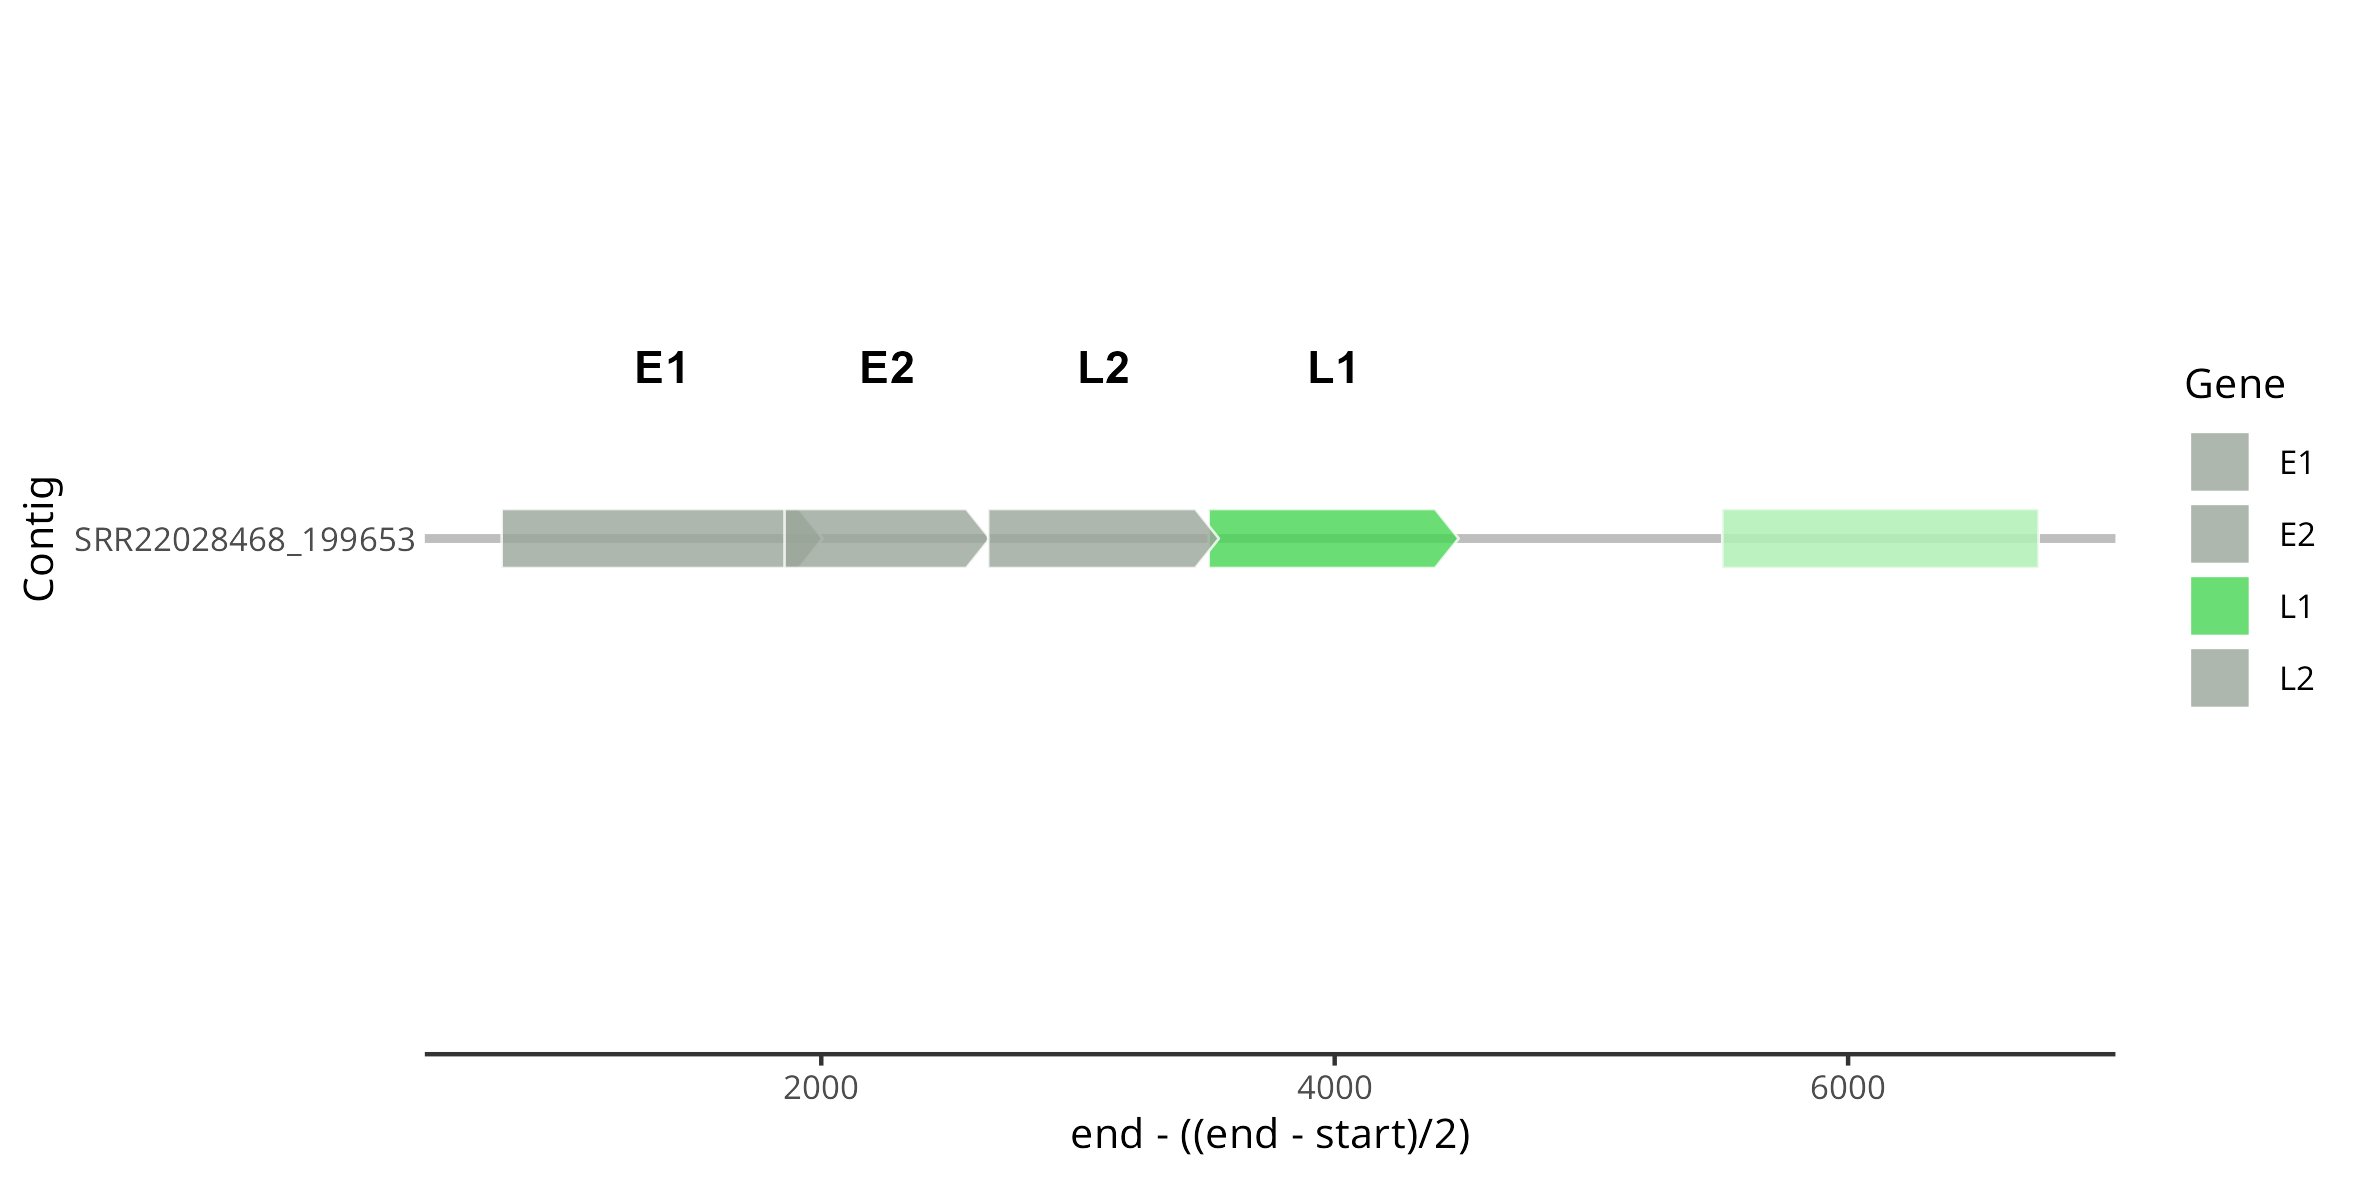
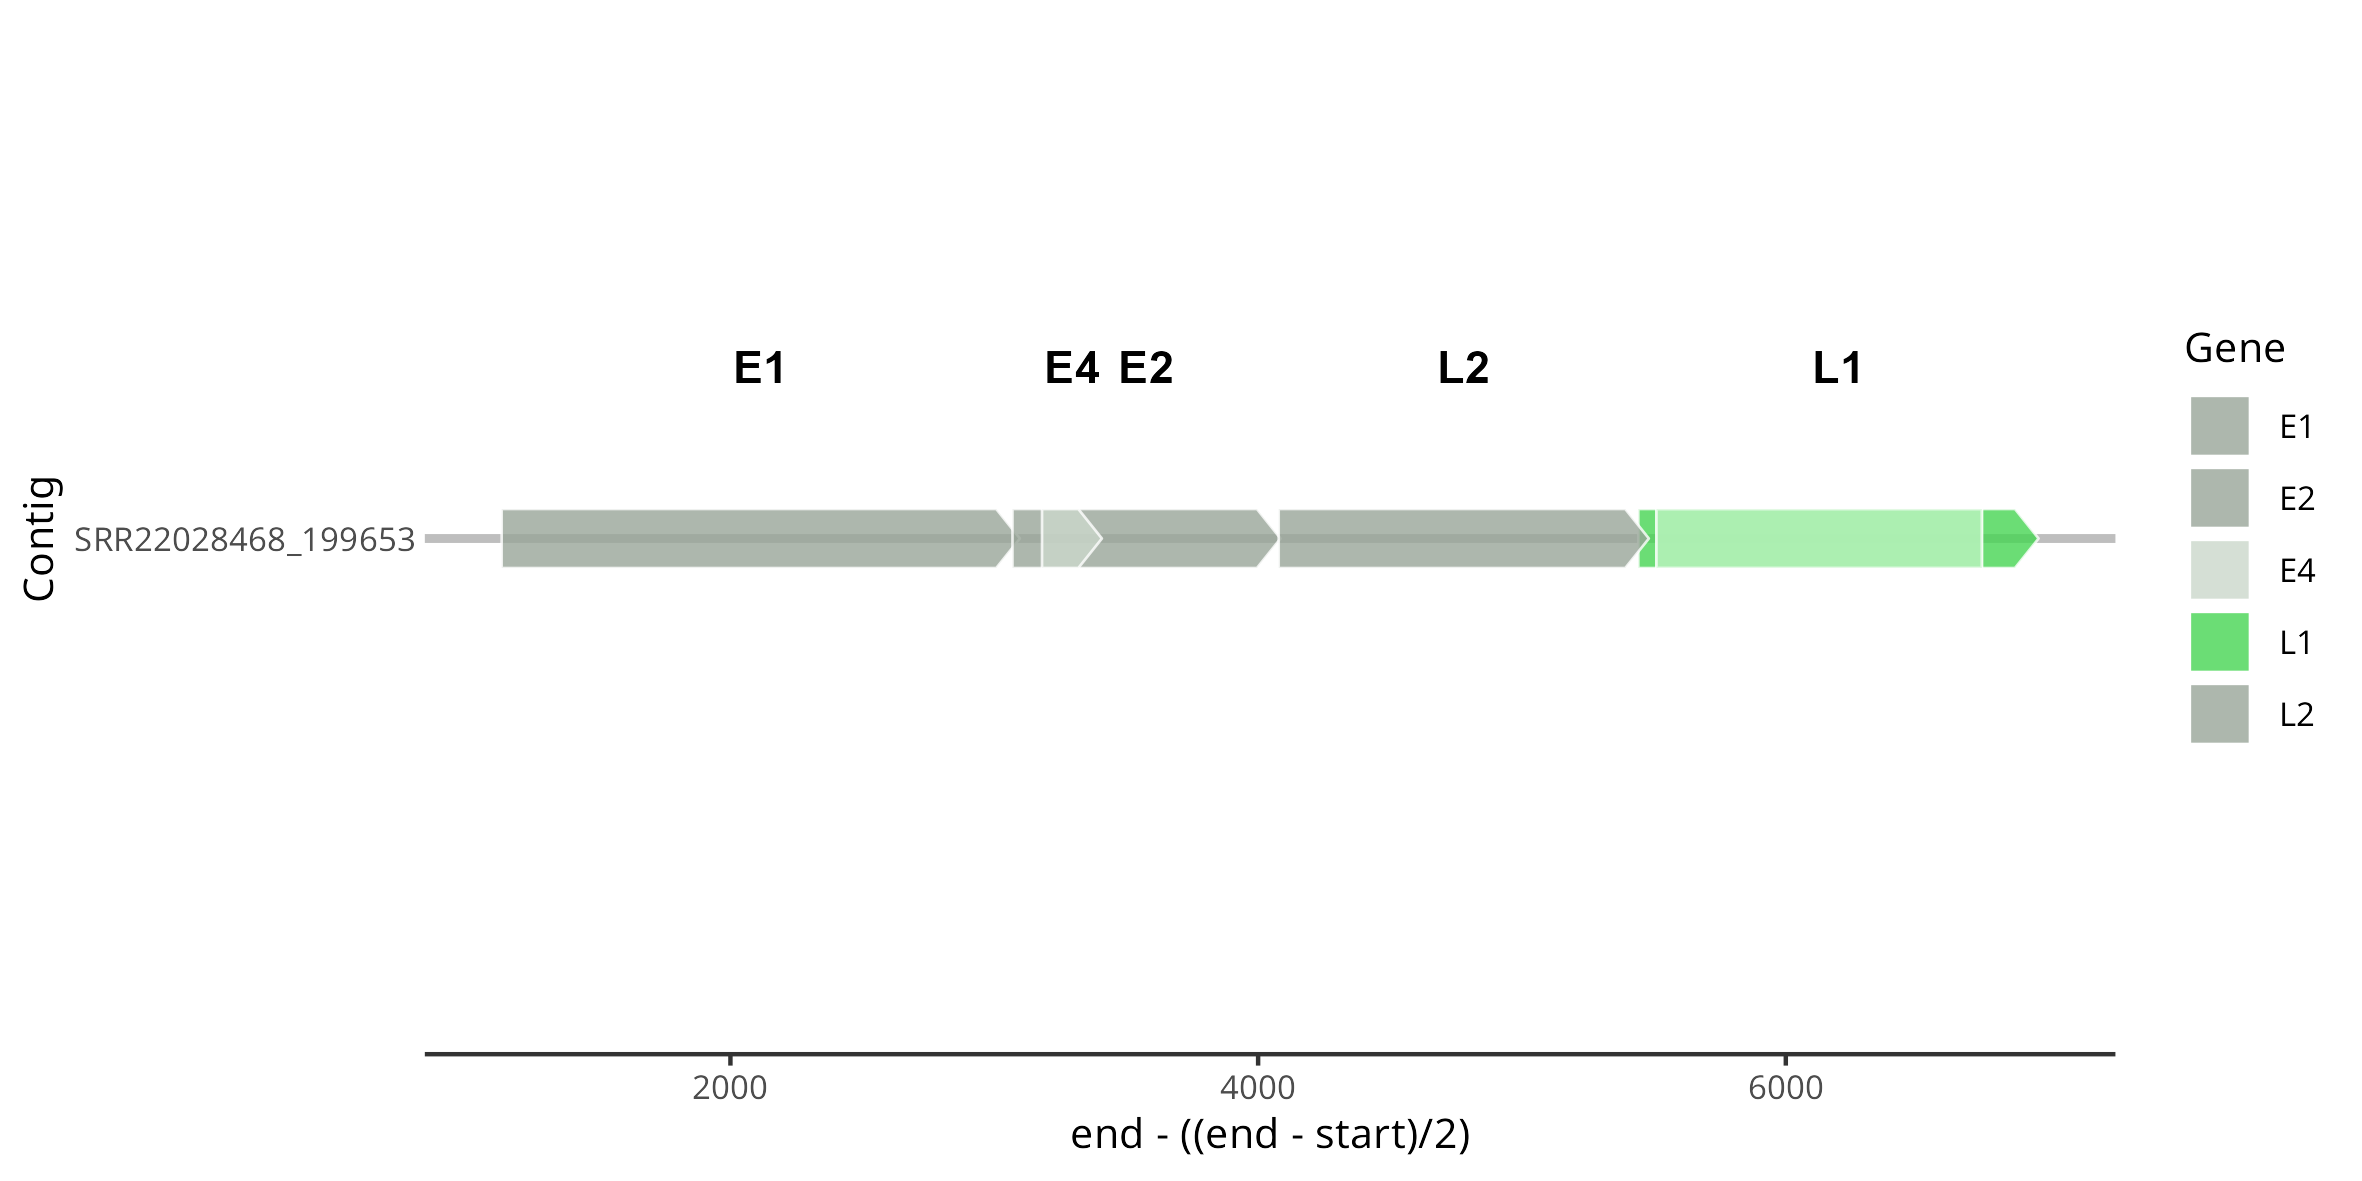
update README.mds

diff --git a/README.md b/README.md
@@ -1,5 +1,10 @@
 # pvs_in_logan
-collection of notebooks that document that process to generate and visualize data on papillomaviruses in Logan
-- they are not perfect, but are comprehensive in recording steps that were taken
-- some documents require manually generated or curated files, which are in notebooks/data folder (please let me know if something is missing!)
-- language is between bash and R, through cell magic in jupyter
+Collection of R scripts that document that process to generate and visualize data on papillomaviruses in Logan
+- comprehensive in recording steps that were taken
+- some documents require manually generated or curated files, which are in the files/directory
+
+All code written from scratch by me (Jessica Shen). Repo organization AI-assisted with Claude Code. Please feel free to reach out if any files are missing, or if you have any inquries.
+
+<p align="center">
+  <img src="files\pvs.jpg" width="100%"/>
+</p>

diff --git a/R_scripts/02_sequence_characterization/README.md b/R_scripts/02_sequence_characterization/README.md
@@ -1,0 +1,7 @@
+Scripts here are used to overall characterize what the sequences from Logan consists of:
+- `reclass_viz.R` contains visualization scripts used to generate figures for my reclassification exam :)
+- `bugging2.R` is a remnant of when I was trying (and failing) to port everything to Jupyter notebooks
+- `hmmer-results.R` used for parsing and understanding Logan outputs once HMMs were run to identify ORFs
+- `L1_pathracer_mining.R`, `pathracer_fullness_hmm.R` , `vert_counts.R` and `pilot_pr_test.R` were used for figuring out what I should try to use Pathracer for, and making sense of the outputs.
+- `ncbi_L1_character.R` was used for characterizing PV sequences retrieved from NCBI Virus
+- `sum_stats_longcontig.R` is mostly rough work trying to figure out what lenghts we were getting, and what needed to be done to get more long sequences.

diff --git a/R_scripts/04_geographic_analysis/README.md b/R_scripts/04_geographic_analysis/README.md
@@ -1,0 +1,17 @@
+Scripts here are used to understand the geographic and biome-based distribution of PVs. This folder has run order dependencies: 
+
+Claude:
+```
+1. **poolygons.R** (run first)
+   - Creates: `grid_sf`, `world`, `data_wide`, `giant_geo_table_grid_id_geometry`
+   - Outputs: `grids_sf.gpkg`
+   - **Note**: Line 17 and 22 reference `all_pvs_mapping_binned` and `all_pvs_mapping`, which is generated in `map_gen_for_pub.R`
+
+2. **geo_analysis.R** (depends on poolygons.R)
+   - Requires: `giant_geo_table_grid_id_geometry`, `grid_sf`, `world`, `data_wide`
+
+3. **biomes.R** (depends on poolygons.R)
+   - Reads: `grids_sf.gpkg` (output from poolygons.R)
+   - Requires: `data_wide`, `grid_sf`, `world`
+```
+I apologize for how interconnected things are!

diff --git a/R_scripts/03_phylogenetics/README.md b/R_scripts/03_phylogenetics/README.md
@@ -1,0 +1,5 @@
+Scripts here are used to generate phylogenetic trees:
+- `bugging.R`, again another casualty of trying to port things to notebooks.
+- `errmm_twees.R` additional troubleshooting for tree generation and trying different aesthetics.
+- `more_trees.R` is more trees!
+- `twees.R` records the main process of generating trees and the final products.

diff --git a/R_scripts/01_database_construction/README.md b/R_scripts/01_database_construction/README.md
@@ -1,0 +1,1 @@
+`logan_3.R` does most of the heavy lifting for the analysis of raw Logan outputs. Inputs are located in the files/ directory. Only some outputs generated in the outputs/ directory, but should be reproducible if run locally.

diff --git a/R_scripts/05_case_studies/README.md b/R_scripts/05_case_studies/README.md
@@ -1,0 +1,1 @@
+This script is purely for generating gene maps for the "case study" portion of the results. ORFs were manually formatted to `gggenes` compliant style, and jellyroll regions were also manually annotated.
